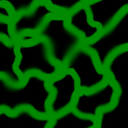
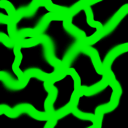
more height on level6

diff --git a/index.html b/index.html
@@ -576,12 +576,12 @@
                         generateVillage = false;;
                         villageRadius = 8;
                         housesRange = [4,4];
-                        LevelSize = 30;
+                        LevelSize = 52;
                         currentLevelURL = 'https://raw.githubusercontent.com/ShiverBeaver/MyExperiments/main/generation/leveltemplates/level6.png';
-                        HeightNoiseRange = [4,4];
-                        HeightTemplateRange = [3,3];
+                        HeightNoiseRange = [3,3];
+                        HeightTemplateRange = [5,5];
                         waterLevel = 3; 
-                        TreeDensity = 0.05;
+                        TreeDensity = 0.03;
                         break;
                     default: 
                         generateVillage = true;
@@ -590,7 +590,7 @@
                         LevelSize = 128;
                         currentLevelURL = 'https://raw.githubusercontent.com/ShiverBeaver/MyExperiments/main/generation/leveltemplates/testlevel_colored.png';
                         HeightNoiseRange = [6,6];
-                        HeightTemplateRange = [8,8];
+                        HeightTemplateRange = [8,9];
                         waterLevel = 4; 
                         break;
                 }
